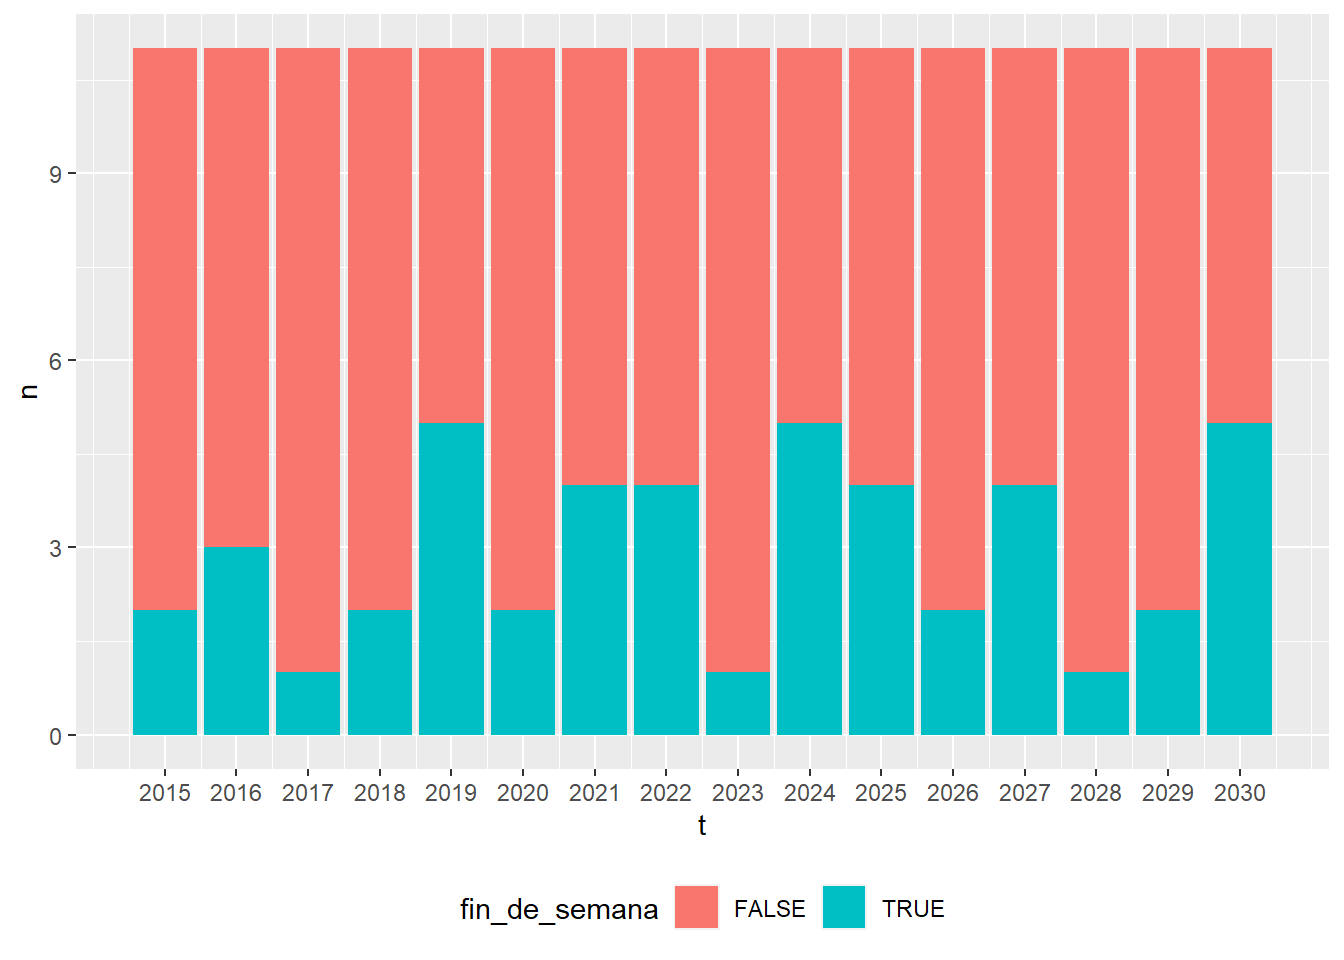
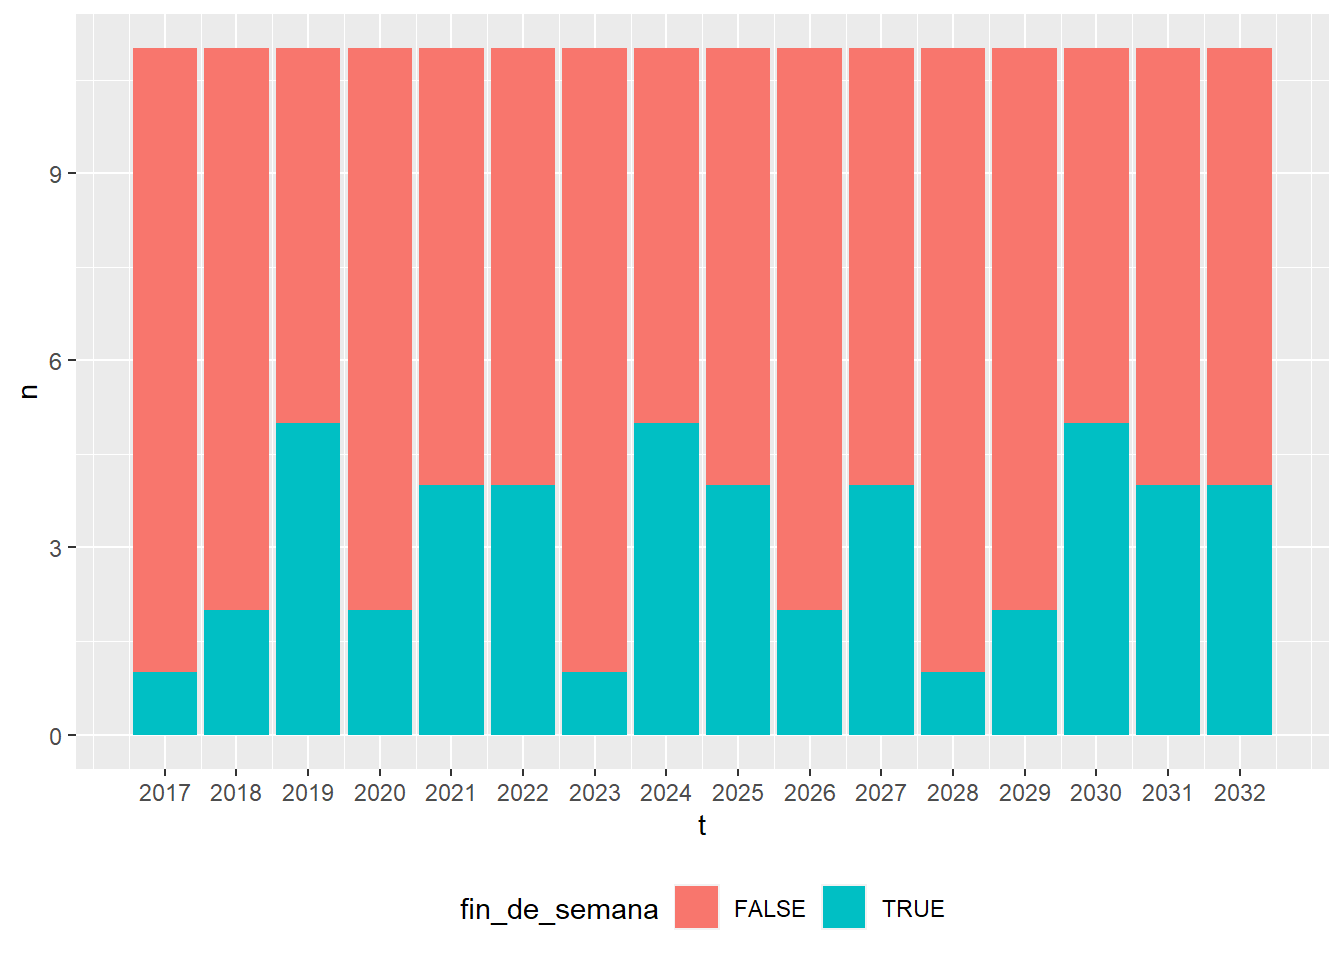
Visualizar feriados!

diff --git a/public/posts/2021-05-06-feriados-en-uruguay/index.html b/public/posts/2021-05-06-feriados-en-uruguay/index.html
@@ -83,7 +83,7 @@
 
         
 
-        <li>2 minutes read</li>
+        <li>4 minutes read</li>
     </ul>
 </aside>
 
@@ -120,7 +120,7 @@ feriados_tabla &lt;- tibble::tribble(
 
 Sys.setlocale(&quot;LC_TIME&quot;, &quot;Spanish_Spain.1252&quot;)</code></pre>
 <pre><code>## [1] &quot;Spanish_Spain.1252&quot;</code></pre>
-<pre class="r"><code>feriados &lt;- expand_grid(t=2015:2030, fecha=feriados_tabla$fecha) %&gt;% 
+<pre class="r"><code>feriados &lt;- expand_grid(t=2017:2032, fecha=feriados_tabla$fecha) %&gt;% 
   left_join(feriados_tabla, by=&quot;fecha&quot;) %&gt;% 
   mutate(fecha = paste(fecha, t)) %&gt;% 
   mutate(fecha=parse_date(fecha, &quot;%d %B %Y&quot;, locale=locale(&quot;es&quot;))) %&gt;% 
@@ -135,10 +135,68 @@ Sys.setlocale(&quot;LC_TIME&quot;, &quot;Spanish_Spain.1252&quot;)</code></pre>
   count(t, fin_de_semana) %&gt;% 
   ggplot(aes(t, n, fill=fin_de_semana)) + 
   geom_col() + 
-  scale_x_continuous(breaks=2015:2030) + 
+  scale_x_continuous(breaks=2017:2032) + 
   theme(legend.position = &quot;bottom&quot;)</code></pre>
 <p><img src="/posts/2021-05-06-feriados-en-uruguay/index_files/figure-html/unnamed-chunk-4-1.png" width="672" /></p>
-<p>Parecería que después de dos años medios 2021 y 2022, en 2023 vamos a tener muy pocos feriados que caen fin de semana y 2024 va a ser nefasto.</p>
+<p>Parecería que después de dos años medios 2021 y 2022, en 2023 vamos a tener muy pocos feriados que caen fin de semana y 2024 va a ser nefasto. Quiero saber dos cosas: ¿cuáles son los feriados que caen juntos?</p>
+</div>
+<div id="cómo-juegan-los-años-bisiestos" class="section level1">
+<h1>¿Cómo juegan los años bisiestos?</h1>
+<p>Los feriados van cambiando de a un día en los años normales y de a dos los años bisiestos:</p>
+<pre class="r"><code>feriados %&gt;% 
+  filter(nombre==&quot;Año Nuevo&quot;)</code></pre>
+<pre><code>## # A tibble: 16 x 4
+##        t fecha      nombre    wdia     
+##    &lt;int&gt; &lt;date&gt;     &lt;chr&gt;     &lt;chr&gt;    
+##  1  2017 2017-01-01 Año Nuevo Domingo  
+##  2  2018 2018-01-01 Año Nuevo Lunes    
+##  3  2019 2019-01-01 Año Nuevo Martes   
+##  4  2020 2020-01-01 Año Nuevo Miércoles
+##  5  2021 2021-01-01 Año Nuevo Viernes  
+##  6  2022 2022-01-01 Año Nuevo Sábado   
+##  7  2023 2023-01-01 Año Nuevo Domingo  
+##  8  2024 2024-01-01 Año Nuevo Lunes    
+##  9  2025 2025-01-01 Año Nuevo Miércoles
+## 10  2026 2026-01-01 Año Nuevo Jueves   
+## 11  2027 2027-01-01 Año Nuevo Viernes  
+## 12  2028 2028-01-01 Año Nuevo Sábado   
+## 13  2029 2029-01-01 Año Nuevo Lunes    
+## 14  2030 2030-01-01 Año Nuevo Martes   
+## 15  2031 2031-01-01 Año Nuevo Miércoles
+## 16  2032 2032-01-01 Año Nuevo Jueves</code></pre>
+<p>El primero de Enero cayó Viernes en 2016, y cómo 2016 fue bisiesto, en 2017 cayó domingo. En 2018 cayó Lunes, 2019 Martes, etc. El día de los Trabajadores es después del 29 de Febrero, por lo que los años bisiestos lo afectan diferente.</p>
+<pre class="r"><code>feriados %&gt;% 
+  filter(nombre==&quot;Día de los Trabajadores&quot;)</code></pre>
+<pre><code>## # A tibble: 16 x 4
+##        t fecha      nombre                  wdia     
+##    &lt;int&gt; &lt;date&gt;     &lt;chr&gt;                   &lt;chr&gt;    
+##  1  2017 2017-05-01 Día de los Trabajadores Lunes    
+##  2  2018 2018-05-01 Día de los Trabajadores Martes   
+##  3  2019 2019-05-01 Día de los Trabajadores Miércoles
+##  4  2020 2020-05-01 Día de los Trabajadores Viernes  
+##  5  2021 2021-05-01 Día de los Trabajadores Sábado   
+##  6  2022 2022-05-01 Día de los Trabajadores Domingo  
+##  7  2023 2023-05-01 Día de los Trabajadores Lunes    
+##  8  2024 2024-05-01 Día de los Trabajadores Miércoles
+##  9  2025 2025-05-01 Día de los Trabajadores Jueves   
+## 10  2026 2026-05-01 Día de los Trabajadores Viernes  
+## 11  2027 2027-05-01 Día de los Trabajadores Sábado   
+## 12  2028 2028-05-01 Día de los Trabajadores Lunes    
+## 13  2029 2029-05-01 Día de los Trabajadores Martes   
+## 14  2030 2030-05-01 Día de los Trabajadores Miércoles
+## 15  2031 2031-05-01 Día de los Trabajadores Jueves   
+## 16  2032 2032-05-01 Día de los Trabajadores Sábado</code></pre>
+<p>Esto implica que los años bisiestos cambian la distribución de feriados por día, y esta queda estable y se mueve hacia la derecha cada año hasta el próximo año bisiesto:</p>
+<pre class="r"><code>feriados %&gt;% 
+  count(t, wdia) %&gt;% 
+  mutate(wdia=factor(wdia, levels=c(&quot;Domingo&quot;, &quot;Lunes&quot;, &quot;Martes&quot;,
+                                    &quot;Miércoles&quot;, &quot;Jueves&quot;, &quot;Viernes&quot;,
+                                    &quot;Sábado&quot;))) %&gt;% 
+  ggplot(aes(wdia, n)) +
+  geom_col() +
+  facet_wrap(~t, ncol = 4) + 
+  guides(fill=&quot;none&quot;)</code></pre>
+<p><img src="/posts/2021-05-06-feriados-en-uruguay/index_files/figure-html/unnamed-chunk-7-1.png" width="672" /></p>
 </div>
 
 

diff --git a/content/posts/2021-05-06-feriados-en-uruguay/index.html b/content/posts/2021-05-06-feriados-en-uruguay/index.html
@@ -37,7 +37,7 @@ feriados_tabla &lt;- tibble::tribble(
 
 Sys.setlocale(&quot;LC_TIME&quot;, &quot;Spanish_Spain.1252&quot;)</code></pre>
 <pre><code>## [1] &quot;Spanish_Spain.1252&quot;</code></pre>
-<pre class="r"><code>feriados &lt;- expand_grid(t=2015:2030, fecha=feriados_tabla$fecha) %&gt;% 
+<pre class="r"><code>feriados &lt;- expand_grid(t=2017:2032, fecha=feriados_tabla$fecha) %&gt;% 
   left_join(feriados_tabla, by=&quot;fecha&quot;) %&gt;% 
   mutate(fecha = paste(fecha, t)) %&gt;% 
   mutate(fecha=parse_date(fecha, &quot;%d %B %Y&quot;, locale=locale(&quot;es&quot;))) %&gt;% 
@@ -52,8 +52,66 @@ Sys.setlocale(&quot;LC_TIME&quot;, &quot;Spanish_Spain.1252&quot;)</code></pre>
   count(t, fin_de_semana) %&gt;% 
   ggplot(aes(t, n, fill=fin_de_semana)) + 
   geom_col() + 
-  scale_x_continuous(breaks=2015:2030) + 
+  scale_x_continuous(breaks=2017:2032) + 
   theme(legend.position = &quot;bottom&quot;)</code></pre>
 <p><img src="/posts/2021-05-06-feriados-en-uruguay/index_files/figure-html/unnamed-chunk-4-1.png" width="672" /></p>
-<p>Parecería que después de dos años medios 2021 y 2022, en 2023 vamos a tener muy pocos feriados que caen fin de semana y 2024 va a ser nefasto.</p>
+<p>Parecería que después de dos años medios 2021 y 2022, en 2023 vamos a tener muy pocos feriados que caen fin de semana y 2024 va a ser nefasto. Quiero saber dos cosas: ¿cuáles son los feriados que caen juntos?</p>
+</div>
+<div id="cómo-juegan-los-años-bisiestos" class="section level1">
+<h1>¿Cómo juegan los años bisiestos?</h1>
+<p>Los feriados van cambiando de a un día en los años normales y de a dos los años bisiestos:</p>
+<pre class="r"><code>feriados %&gt;% 
+  filter(nombre==&quot;Año Nuevo&quot;)</code></pre>
+<pre><code>## # A tibble: 16 x 4
+##        t fecha      nombre    wdia     
+##    &lt;int&gt; &lt;date&gt;     &lt;chr&gt;     &lt;chr&gt;    
+##  1  2017 2017-01-01 Año Nuevo Domingo  
+##  2  2018 2018-01-01 Año Nuevo Lunes    
+##  3  2019 2019-01-01 Año Nuevo Martes   
+##  4  2020 2020-01-01 Año Nuevo Miércoles
+##  5  2021 2021-01-01 Año Nuevo Viernes  
+##  6  2022 2022-01-01 Año Nuevo Sábado   
+##  7  2023 2023-01-01 Año Nuevo Domingo  
+##  8  2024 2024-01-01 Año Nuevo Lunes    
+##  9  2025 2025-01-01 Año Nuevo Miércoles
+## 10  2026 2026-01-01 Año Nuevo Jueves   
+## 11  2027 2027-01-01 Año Nuevo Viernes  
+## 12  2028 2028-01-01 Año Nuevo Sábado   
+## 13  2029 2029-01-01 Año Nuevo Lunes    
+## 14  2030 2030-01-01 Año Nuevo Martes   
+## 15  2031 2031-01-01 Año Nuevo Miércoles
+## 16  2032 2032-01-01 Año Nuevo Jueves</code></pre>
+<p>El primero de Enero cayó Viernes en 2016, y cómo 2016 fue bisiesto, en 2017 cayó domingo. En 2018 cayó Lunes, 2019 Martes, etc. El día de los Trabajadores es después del 29 de Febrero, por lo que los años bisiestos lo afectan diferente.</p>
+<pre class="r"><code>feriados %&gt;% 
+  filter(nombre==&quot;Día de los Trabajadores&quot;)</code></pre>
+<pre><code>## # A tibble: 16 x 4
+##        t fecha      nombre                  wdia     
+##    &lt;int&gt; &lt;date&gt;     &lt;chr&gt;                   &lt;chr&gt;    
+##  1  2017 2017-05-01 Día de los Trabajadores Lunes    
+##  2  2018 2018-05-01 Día de los Trabajadores Martes   
+##  3  2019 2019-05-01 Día de los Trabajadores Miércoles
+##  4  2020 2020-05-01 Día de los Trabajadores Viernes  
+##  5  2021 2021-05-01 Día de los Trabajadores Sábado   
+##  6  2022 2022-05-01 Día de los Trabajadores Domingo  
+##  7  2023 2023-05-01 Día de los Trabajadores Lunes    
+##  8  2024 2024-05-01 Día de los Trabajadores Miércoles
+##  9  2025 2025-05-01 Día de los Trabajadores Jueves   
+## 10  2026 2026-05-01 Día de los Trabajadores Viernes  
+## 11  2027 2027-05-01 Día de los Trabajadores Sábado   
+## 12  2028 2028-05-01 Día de los Trabajadores Lunes    
+## 13  2029 2029-05-01 Día de los Trabajadores Martes   
+## 14  2030 2030-05-01 Día de los Trabajadores Miércoles
+## 15  2031 2031-05-01 Día de los Trabajadores Jueves   
+## 16  2032 2032-05-01 Día de los Trabajadores Sábado</code></pre>
+<p>Esto implica que los años bisiestos cambian la distribución de feriados por día, y esta queda estable y se mueve hacia la derecha cada año hasta el próximo año bisiesto:</p>
+<pre class="r"><code>feriados %&gt;% 
+  count(t, wdia) %&gt;% 
+  mutate(wdia=factor(wdia, levels=c(&quot;Domingo&quot;, &quot;Lunes&quot;, &quot;Martes&quot;,
+                                    &quot;Miércoles&quot;, &quot;Jueves&quot;, &quot;Viernes&quot;,
+                                    &quot;Sábado&quot;))) %&gt;% 
+  ggplot(aes(wdia, n)) +
+  geom_col() +
+  facet_wrap(~t, ncol = 4) + 
+  guides(fill=&quot;none&quot;)</code></pre>
+<p><img src="/posts/2021-05-06-feriados-en-uruguay/index_files/figure-html/unnamed-chunk-7-1.png" width="672" /></p>
 </div>
